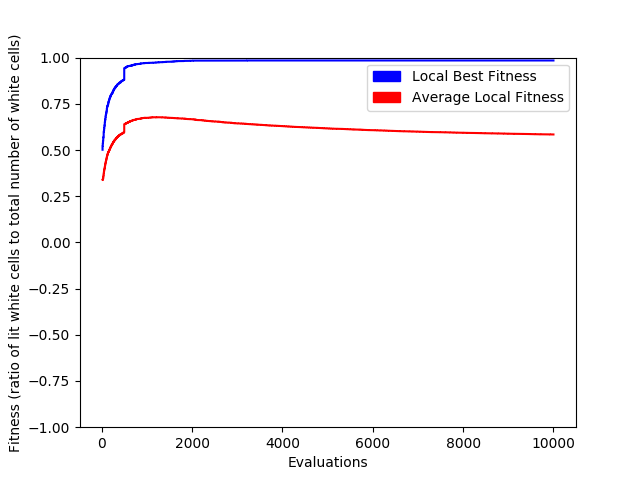
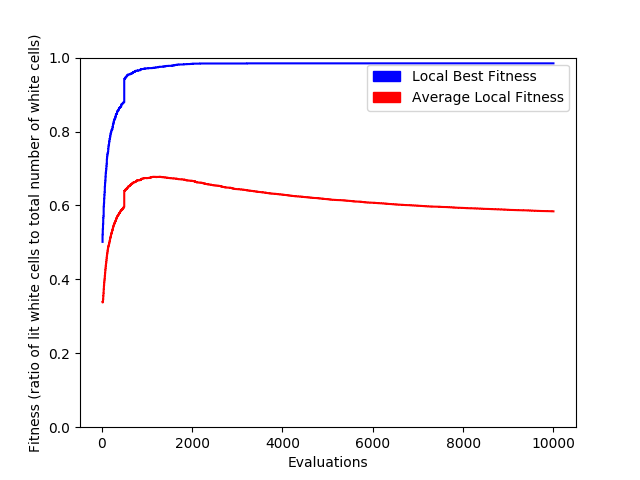
Adjust fitness range for bonus graphs

diff --git a/analysis/gen_fitness_graphs.py b/analysis/gen_fitness_graphs.py
@@ -51,7 +51,12 @@ for q in range(len(log_file_paths)):
         ax.step(evals, avg_fits, '-r')
         ax.step(evals, best_fits, '-b')
 
-        plt.ylim(-1, 1)
+        if 'bonus' in log_file_paths[q]:
+            # These plots only include fitness values between 0 and 1 inclusive
+            plt.ylim(0, 1)
+        else:
+            # These plots include both negative and positive fitness values
+            plt.ylim(-1, 1)
 
         red_patch = mpatches.Patch(color='red', label='Average Local Fitness')
         blue_patch = mpatches.Patch(color='blue', label='Local Best Fitness')
